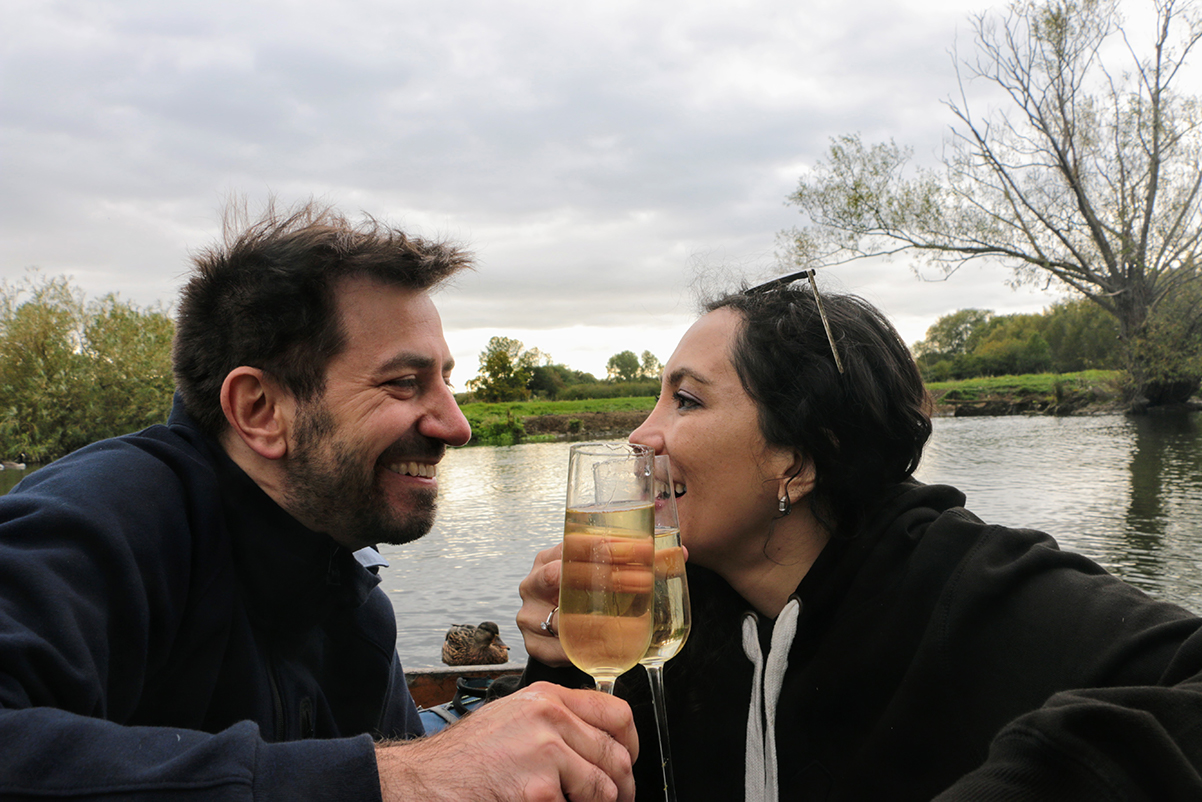
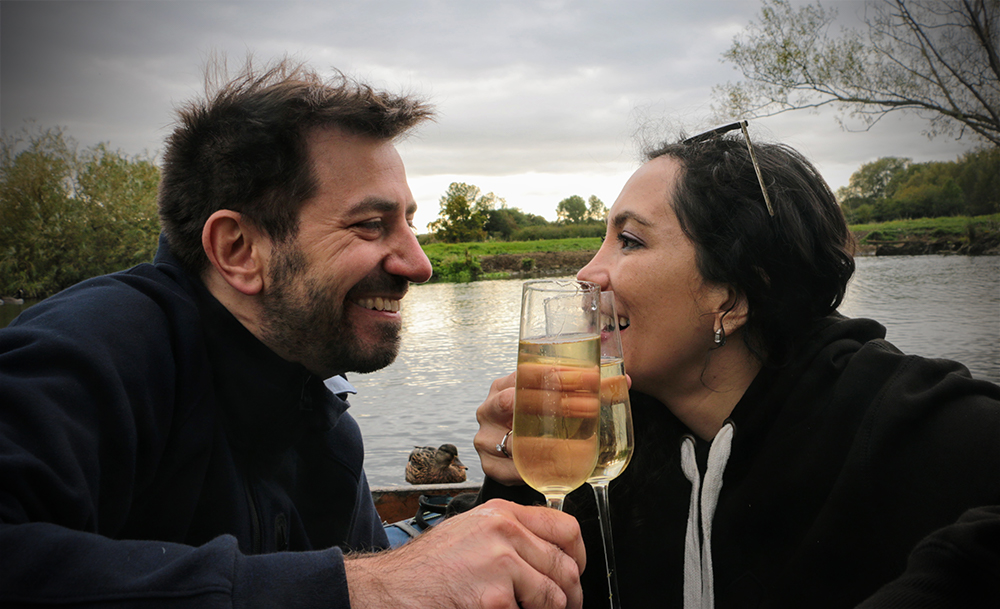
changed picture background, added vingete color, changes somes buttons

diff --git a/7f487033bf688bf9642d0a064ae7772d5ec1795a/css/styles.min.css b/7f487033bf688bf9642d0a064ae7772d5ec1795a/css/styles.min.css
@@ -1,1 +1,1 @@
-@import url(https://fonts.googleapis.com/css?family=Open+Sans:300italic,400italic,600italic,700italic,800italic,400,300,600,700,800);@import url(https://fonts.googleapis.com/css?family=Merriweather:400,300,400italic,300italic,700,700italic);@import url(https://fonts.googleapis.com/css?family=Nunito:400,300,700);p{font-size:15px;line-height:29px;color:rgba(28,54,83,0.6);padding-bottom:20px}h1{font-size:60px}h2{font-size:40px;font-weight:300;color:#3D4351}h3{color:#3D4351;font-size:18px;font-weight:700;text-transform:uppercase;letter-spacing:3px;line-height:29px}h4{font-size:18px}h5{font-size:15px;color:#3D4351;text-transform:uppercase;font-weight:500}.btn{font-size:13px;border:solid 2px;-moz-border-radius:40px;-webkit-border-radius:40px;border-radius:40px;display:inline-block;text-transform:uppercase}.btn:hover,.btn:focus{color:#fff;border-color:#e8ca6f;background-color:#e8ca6f}.btn-white{font-size:13px;border:solid 2px;-moz-border-radius:40px;-webkit-border-radius:40px;border-radius:40px;display:inline-block;border-color:#fff}.btn-white:hover,.btn-white:focus{color:#e8ca6f;border-color:#e8ca6f}.btn-fill{color:#fff;border:solid 2px #e8ca6f;-moz-border-radius:40px;-webkit-border-radius:40px;border-radius:40px;display:inline-block;text-transform:uppercase;background-color:#e8ca6f}.btn-fill:hover,.btn-fill:focus{color:#fff;background-color:#d3b56a;border-color:#d3b56a}.btn-small{padding:8px 30px}.btn-large{padding:15px 40px}.btn-margin-right{margin-right:20px}section.intro,section.features-extra,section.rsvp{background:#fff}section.features,section.events,section.blog{background:#f8f9fd}.group:after{content:"";display:table;clear:both}.no-padding{padding:0}.no-margin{margin:0}a{color:#e8ca6f;-webkit-transition-timing-function:ease;transition-timing-function:ease;-webkit-transition-duration:200ms;transition-duration:200ms;-webkit-transition-property:color, border-color, background-color;transition-property:color, border-color, background-color}a:hover,a:focus{color:#d3b56a;text-decoration:none}body{font-family:"Open Sans",sans-serif;font-weight:300;color:rgba(28,54,83,0.6);-webkit-text-size-adjust:100%}*:focus{outline:none !important}ul,ol{margin:0;padding:0}ul li{list-style:none}section .header{padding-bottom:30px}.section-padding{padding:40px 0}.section-border{border-bottom:1px solid #E6E9EA}.tooltip{position:absolute;z-index:1070;display:block;font-family:"Helvetica Neue", Helvetica, Arial, sans-serif;font-size:12px;font-weight:normal;line-height:1.4;visibility:visible;filter:alpha(opacity=0);opacity:0}.tooltip.in{filter:alpha(opacity=90);opacity:.9}.tooltip.top{padding:5px 0;margin-top:-3px}.tooltip.right{padding:0 5px;margin-left:3px}.tooltip.bottom{padding:5px 0;margin-top:3px}.tooltip.left{padding:0 5px;margin-left:-3px}.tooltip-inner{max-width:200px;padding:3px 8px;color:#fff;text-align:center;text-decoration:none;text-transform:capitalize;background-color:#000;border-radius:4px}.pulse2{animation-name:pulse2;animation-duration:1s;animation-iteration-count:infinite;animation-timing-function:linear}@keyframes pulse2{0%{transform:scale(1.1)}50%{transform:scale(0.8)}100%{transform:scale(1)}}.floating-arrow{animation-name:floating-arrow;animation-duration:2s;animation-iteration-count:infinite;animation-timing-function:ease-in-out}@keyframes floating-arrow{from{transform:translate(-50%, 0)}65%{transform:translate(-50%, 15px)}to{transform:translate(-50%, 0)}}.floating-logo{animation-name:floating-logo;animation-duration:2s;animation-iteration-count:infinite;animation-timing-function:ease-in-out}@keyframes floating-logo{from{transform:translate(-50%, 0)}50%{transform:translate(-50%, 10px)}to{transform:translate(-50%, 0)}}.wp1,.wp2,.wp3,.wp4,.wp5,.wp6,.wp7,.wp8,.wp9{visibility:hidden}.wp8,.wp9{-webkit-animation-delay:0.3s;animation-delay:0.3s}.bounceInLeft,.bounceInRight,.fadeInUp,.fadeInUpDelay,.fadeInDown,.fadeInUpD,.fadeInLeft,.fadeInRight,.bounceInDown{visibility:visible}.header-nav.open{visibility:visible;opacity:0.9;-webkit-transition:opacity 0.5s;transition:opacity 0.5s}.nav-toggle{position:absolute;top:0;right:15px;z-index:999999;padding:10px 35px 16px 0;cursor:pointer}.nav-toggle:focus{outline:none}.nav-toggle span,.nav-toggle span:before,.nav-toggle span:after{content:"";position:absolute;display:block;width:35px;height:3px;-moz-border-radius:1px;-webkit-border-radius:1px;border-radius:1px;background:#fff;cursor:pointer}.nav-toggle span:before{top:-10px}.nav-toggle span:after{bottom:-10px}.nav-toggle span,.nav-toggle span:before,.nav-toggle span:after{-moz-transition:all 300ms ease-in-out;-o-transition:all 300ms ease-in-out;-webkit-transition:all 300ms ease-in-out;transition:all 300ms ease-in-out}.nav-toggle.active span{background-color:transparent}.nav-toggle.active span:before,.nav-toggle.active span:after{top:0}.nav-toggle.active span:before{-moz-transform:rotate(45deg);-ms-transform:rotate(45deg);-o-transform:rotate(45deg);-webkit-transform:rotate(45deg);transform:rotate(45deg)}.nav-toggle.active span:after{top:10px;-moz-transform:translatey(-10px) rotate(-45deg);-ms-transform:translatey(-10px) rotate(-45deg);-o-transform:translatey(-10px) rotate(-45deg);-webkit-transform:translatey(-10px) rotate(-45deg);transform:translatey(-10px) rotate(-45deg)}.navicon{position:absolute;height:26px;right:10px;top:48px;visibility:hidden;transition:all 300ms ease-in-out}.hero{min-height:750px;background:url("../img/hero-min.jpg") center center;-webkit-background-size:cover;-moz-background-size:cover;-o-background-size:cover;background-size:cover;position:relative}.hero .down-arrow a{color:#fff}.hero h1{color:#fff;margin-bottom:40px}.hero p.intro{color:#fff;font-size:20px;font-weight:300;margin-bottom:80px}.hero .hero-content{padding-top:40%}.hero .hero-content img{width:55%;margin-bottom:12%}.navigation{transition:all 300ms ease-in-out;position:fixed;width:100%;z-index:999}.fixed{position:fixed;background-color:rgba(55,36,40,0.88);z-index:999;width:100%}header{padding:50px 0;border-bottom:solid 1px rgba(255,255,255,0.2);position:relative;width:1170px;margin:0 auto;transition:padding 300ms ease-in-out}header a{color:#fff;text-transform:uppercase;font-size:13px}header a.login{margin-right:20px}header .logo{display:inline-block}header .logo img{height:19px}header ul.primary-nav{margin:0 0 0 75px;padding:0}header ul.primary-nav li{display:inline}header ul.primary-nav li a{color:#fff;padding-right:25px}header ul.primary-nav li a:hover{color:#e8ca6f}header ul.primary-nav li:last-child a{padding-right:0px}header ul.member-actions li{display:inline}header ul.member-actions li a{color:#fff}header ul.member-actions li a:hover{color:#e8ca6f}header .header-nav{display:inline-block}header .member-actions{position:absolute;right:0;top:41px;transition:all 300ms ease-in-out}.down-arrow{color:#fff;font-size:30px;position:absolute;bottom:30px;left:50%;transform:translateX(-50%)}.share-bar{margin-top:20px}.intro span.icon{font-size:40px;color:#e8ca6f;font-weight:bold}.intro-icon{display:inline-block;vertical-align:top;padding:6px 0 0 0;margin-right:20px;width:40px}.intro-content{display:inline-block;width:80%}#intro{padding-top:40px}#intro img{width:100%;height:auto}#intro p{text-align:center}.features{position:relative}.features p{margin-bottom:0;padding-bottom:0}.features h3{margin:0 0 20px 0}.features span.icon{font-size:35px;color:#e8ca6f;font-weight:bold}.features .feature-icon{display:inline-block;vertical-align:top;padding:6px 0 0 0;margin-right:20px;width:35px}.features .feature-content{display:inline-block;width:75%}.features .intro-icon{display:inline-block;vertical-align:top;padding:6px 0 0 0;margin-right:20px}.features .intro-content{display:inline-block;width:80%}.features ul.features-stack{margin-top:50px}.features ul.features-stack li{margin-top:20px;padding-bottom:20px;border-bottom:solid 1px #E6E9EA}.features ul.features-stack li:last-child{padding-bottom:0px;border-bottom:none}.features .ipad-wrap{width:706px;height:1002px;background:url("../img/ipad-device.png") no-repeat center center;z-index:1}.features .iphone-wrap{width:304px;height:620px;background:url("../img/iphone6.png") no-repeat center center;position:absolute;left:530px;bottom:129px;z-index:2}.features .device-showcase{position:absolute;bottom:-365px;right:61%}.features .responsive-feature-img,.features-extra .responsive-feature-img{display:none}.devices{position:relative}.features-extra{position:relative;z-index:3}.features-extra .btn{margin-top:20px}.features-extra .macbook-wrap{position:absolute;width:916px;height:540px;background:url("../img/macbook-pro.png") no-repeat center center;top:114px;z-index:4;left:50%}.hero-strip{margin-top:120px;background:#333844 url("../img/polygonal-bg.jpg") no-repeat center center;padding-bottom:190px;position:relative}.hero-strip i{font-family:"Nunito",sans-serif;font-weight:300;font-size:25px;color:#F69D52;vertical-align:top;margin-left:-8px;font-style:normal}.hero-strip h2{color:#fff;margin:0 0 20px 0}.hero-strip p{color:#ACB1B4}.hero-strip .btn{margin-top:10px}.hero-strip .logo-placeholder{width:230px;height:230px;position:absolute;bottom:-285px;left:50%;transform:translateX(-50%)}.events .leftcol{padding-right:100px;border-right:solid 1px #E6E9EA}.events .rightcol{padding-left:100px}.events .time{font-size:13px;font-style:italic;text-transform:lowercase;color:rgba(28,54,83,0.6)}.blog{padding-bottom:120px}.blog img{width:100%;height:auto;-moz-transition:all 300ms ease-in-out;-o-transition:all 300ms ease-in-out;-webkit-transition:all 300ms ease-in-out;transition:all 300ms ease-in-out}.blog h2{font-size:11px;color:#ACB1B4;font-weight:500;text-transform:uppercase;margin-top:35px}.blog .btn{margin-top:20px}.blog .blog-img-wrap{position:relative;overflow:hidden}.blog .blog-img-wrap .overlay{position:absolute;width:100%;height:100%;background-color:rgba(255,255,255,0.5);-moz-transition:all 300ms ease-in-out;-o-transition:all 300ms ease-in-out;-webkit-transition:all 300ms ease-in-out;transition:all 300ms ease-in-out;-ms-filter:"progid:DXImageTransform.Microsoft.Alpha(Opacity=0)";filter:alpha(opacity=0);opacity:0}.blog .blog-img-wrap i{color:#fff;font-size:20px;position:absolute;width:20px;height:20px;top:25px;right:35px}.blog .blog-img-wrap:hover img,.blog .blog-img-wrap:focus img{-moz-transform:scale(1.1);-ms-transform:scale(1.1);-o-transform:scale(1.1);-webkit-transform:scale(1.1);transform:scale(1.1)}.blog .blog-img-wrap:hover .overlay,.blog .blog-img-wrap:focus .overlay{-ms-filter:"progid:DXImageTransform.Microsoft.Alpha(Opacity=1)";filter:alpha(opacity=1);opacity:1;z-index:9}.blog figcaption i{margin-left:5px;font-size:15px}.blog figcaption a.blog-post-title{color:rgba(28,54,83,0.6)}.blog figcaption a.blog-post-title:hover,.blog figcaption a.blog-post-title:focus{color:#3D4351}#instagram img{width:100%}#eng-pics img{width:100%;height:auto;-moz-transition:all 300ms ease-in-out;-o-transition:all 300ms ease-in-out;-webkit-transition:all 300ms ease-in-out;transition:all 300ms ease-in-out}#eng-pics .img-wrap{position:relative;overflow:hidden;border-radius:4px}#eng-pics .img-wrap .overlay{position:absolute;width:100%;height:100%;background-color:rgba(255,255,255,0.5);-moz-transition:all 300ms ease-in-out;-o-transition:all 300ms ease-in-out;-webkit-transition:all 300ms ease-in-out;transition:all 300ms ease-in-out;-ms-filter:"progid:DXImageTransform.Microsoft.Alpha(Opacity=0)";filter:alpha(opacity=0);opacity:0}#eng-pics .img-wrap i{color:#fff;font-size:15px;position:absolute;width:15px;height:15px;top:6px;right:6px}#eng-pics .img-wrap:hover img,#eng-pics .img-wrap:focus img{-moz-transform:scale(1.1);-ms-transform:scale(1.1);-o-transform:scale(1.1);-webkit-transform:scale(1.1);transform:scale(1.1)}#eng-pics .img-wrap:hover .overlay,#eng-pics .img-wrap:focus .overlay{-ms-filter:"progid:DXImageTransform.Microsoft.Alpha(Opacity=1)";filter:alpha(opacity=1);opacity:1;z-index:9}#eng-pics .diamond{width:230px;height:230px;position:absolute;bottom:-145px;left:50%;transform:translateX(-50%);z-index:500}#eng-pics .ring{width:75px;height:75px;border-radius:75px;border:10px solid #d0d3d4;position:absolute;left:34%;top:75%;z-index:-1}#video-bg{height:300px}#video-content{width:100%;height:100%;padding-top:100px;position:relative;background:rgba(17,17,17,0.5);text-align:center}#video-content h5{color:#ffffff;font-size:30px;font-weight:300;letter-spacing:10px}#video-content p{color:#ffffff}#map-canvas{height:500px;width:100%}#map-content-wrapper{position:relative;margin-top:-502px;margin-bottom:150px}#map-content{margin-top:40px;padding:50px 60px;background:#fff;-webkit-transition:opacity 0.5s, visibility 0.6s, margin-top 0.5s;transition:opacity 0.5s, visibility 0.6s, margin-top 0.5s}#btn-show-content{padding:20px;background:#fff;cursor:pointer;display:inline-block;-webkit-transition:opacity 0.5s, visibility 0.6s, margin-top 0.5s;transition:opacity 0.5s, visibility 0.6s, margin-top 0.5s}.toggle-map-content{opacity:0;visibility:hidden}.pointer-events-none{pointer-events:none}.pointer-events-auto{pointer-events:auto}.rsvp{padding-bottom:140px}.rsvp .rsvp-form .rsvp-btn{padding:15px 0;border-radius:3px;width:100%;font-size:13px}.rsvp .rsvp-form .form-input-group{width:100%;height:55px;margin:0 auto 10px;-moz-border-radius:5px;-webkit-border-radius:5px;border-radius:5px;border:solid 1px #E6E9EA;text-align:left;position:relative}.rsvp .rsvp-form .form-input-group i{color:#e8ca6f;font-size:14px}.rsvp .rsvp-form .form-input-group i:after{content:"";height:30px;width:1px;border-right:solid 1px #E6E9EA;position:absolute;top:50%;left:30px;transform:translateY(-50%)}.rsvp .rsvp-form .form-input-group i.fa-user,.rsvp .rsvp-form .form-input-group i.fa-users,.rsvp .rsvp-form .form-input-group i.fa-envelope,.rsvp .rsvp-form .form-input-group .fa-key{font-size:14px;position:absolute;top:50%;transform:translateY(-50%);margin-left:20px}.rsvp .rsvp-form .form-input-group input{padding-left:68px;width:100%;height:100%;-moz-border-radius:6px;-webkit-border-radius:6px;border-radius:6px;border:none}.rsvp .rsvp-form .form-input-group input::-webkit-input-placeholder{color:#BCC1C3}.rsvp .rsvp-form .form-input-group input:-moz-placeholder{color:#BCC1C3}.rsvp .rsvp-form .form-input-group input::-moz-placeholder{color:#BCC1C3}.rsvp .rsvp-form .form-input-group input:-ms-input-placeholder{color:#BCC1C3}footer .content{border-top:1px solid #E6E9EA;padding-bottom:20px}footer .to-top-wrapper{font-size:30px;display:block;cursor:pointer;margin:-25px auto 50px;border-radius:50%;width:50px;height:50px;border:1px solid #E6E9EA;background:#fff}footer .to-top-wrapper .to-top{display:block;-webkit-transition:all .3s ease-in-out;-moz-transition:all .3s ease-in-out;-ms-transition:all .3s ease-in-out;-o-transition:all .3s ease-in-out;transition:all .3s ease-in-out}footer .to-top-wrapper .to-top:hover{margin-top:-5px}footer span.fa-heart{color:#ff415c;font-size:18px;margin:0 2px}body.modal-open{padding-right:0 !important}.modal-body{padding:25px}
+@import url(https://fonts.googleapis.com/css?family=Open+Sans:300italic,400italic,600italic,700italic,800italic,400,300,600,700,800);@import url(https://fonts.googleapis.com/css?family=Merriweather:400,300,400italic,300italic,700,700italic);@import url(https://fonts.googleapis.com/css?family=Nunito:400,300,700);p{font-size:15px;line-height:29px;color:rgba(28,54,83,0.6);padding-bottom:20px}h1{font-size:60px}h2{font-size:40px;font-weight:300;color:#3D4351}h3{color:#3D4351;font-size:18px;font-weight:700;text-transform:uppercase;letter-spacing:3px;line-height:29px}h4{font-size:18px}h5{font-size:15px;color:#3D4351;text-transform:uppercase;font-weight:500}.btn{font-size:13px;border:solid 2px;-moz-border-radius:40px;-webkit-border-radius:40px;border-radius:40px;display:inline-block;text-transform:uppercase}.btn:hover,.btn:focus{color:#fff;border-color:#e8ca6f;background-color:#e8ca6f}.btn-white{font-size:13px;font-weight:bold;border:solid 3px;-moz-border-radius:40px;-webkit-border-radius:40px;border-radius:40px;display:inline-block;border-color:#fff}.btn-white:hover,.btn-white:focus{color:#e8ca6f;border-color:#e8ca6f}.btn-fill{color:#fff;border:solid 2px #e8ca6f;-moz-border-radius:40px;-webkit-border-radius:40px;border-radius:40px;display:inline-block;text-transform:uppercase;background-color:#e8ca6f}.btn-fill:hover,.btn-fill:focus{color:#fff;background-color:#d3b56a;border-color:#d3b56a}.btn-small{padding:8px 30px}.btn-large{padding:15px 40px}.btn-margin-right{margin-right:20px}section.intro,section.features-extra,section.rsvp{background:#fff}section.features,section.events,section.blog{background:#f8f9fd}.group:after{content:"";display:table;clear:both}.no-padding{padding:0}.no-margin{margin:0}a{color:#e8ca6f;-webkit-transition-timing-function:ease;transition-timing-function:ease;-webkit-transition-duration:200ms;transition-duration:200ms;-webkit-transition-property:color, border-color, background-color;transition-property:color, border-color, background-color}a:hover,a:focus{color:#d3b56a;text-decoration:none}body{font-family:"Open Sans",sans-serif;font-weight:300;color:rgba(28,54,83,0.6);-webkit-text-size-adjust:100%}*:focus{outline:none !important}ul,ol{margin:0;padding:0}ul li{list-style:none}section .header{padding-bottom:30px}.section-padding{padding:40px 0}.section-border{border-bottom:1px solid #E6E9EA}.tooltip{position:absolute;z-index:1070;display:block;font-family:"Helvetica Neue", Helvetica, Arial, sans-serif;font-size:12px;font-weight:normal;line-height:1.4;visibility:visible;filter:alpha(opacity=0);opacity:0}.tooltip.in{filter:alpha(opacity=90);opacity:.9}.tooltip.top{padding:5px 0;margin-top:-3px}.tooltip.right{padding:0 5px;margin-left:3px}.tooltip.bottom{padding:5px 0;margin-top:3px}.tooltip.left{padding:0 5px;margin-left:-3px}.tooltip-inner{max-width:200px;padding:3px 8px;color:#fff;text-align:center;text-decoration:none;text-transform:capitalize;background-color:#000;border-radius:4px}.pulse2{animation-name:pulse2;animation-duration:1s;animation-iteration-count:infinite;animation-timing-function:linear}@keyframes pulse2{0%{transform:scale(1.1)}50%{transform:scale(0.8)}100%{transform:scale(1)}}.floating-arrow{animation-name:floating-arrow;animation-duration:2s;animation-iteration-count:infinite;animation-timing-function:ease-in-out}@keyframes floating-arrow{from{transform:translate(-50%, 0)}65%{transform:translate(-50%, 15px)}to{transform:translate(-50%, 0)}}.floating-logo{animation-name:floating-logo;animation-duration:2s;animation-iteration-count:infinite;animation-timing-function:ease-in-out}@keyframes floating-logo{from{transform:translate(-50%, 0)}50%{transform:translate(-50%, 10px)}to{transform:translate(-50%, 0)}}.wp1,.wp2,.wp3,.wp4,.wp5,.wp6,.wp7,.wp8,.wp9{visibility:hidden}.wp8,.wp9{-webkit-animation-delay:0.3s;animation-delay:0.3s}.bounceInLeft,.bounceInRight,.fadeInUp,.fadeInUpDelay,.fadeInDown,.fadeInUpD,.fadeInLeft,.fadeInRight,.bounceInDown{visibility:visible}.header-nav.open{visibility:visible;opacity:0.9;-webkit-transition:opacity 0.5s;transition:opacity 0.5s}.nav-toggle{position:absolute;top:0;right:15px;z-index:999999;padding:10px 35px 16px 0;cursor:pointer}.nav-toggle:focus{outline:none}.nav-toggle span,.nav-toggle span:before,.nav-toggle span:after{content:"";position:absolute;display:block;width:35px;height:3px;-moz-border-radius:1px;-webkit-border-radius:1px;border-radius:1px;background:#fff;cursor:pointer}.nav-toggle span:before{top:-10px}.nav-toggle span:after{bottom:-10px}.nav-toggle span,.nav-toggle span:before,.nav-toggle span:after{-moz-transition:all 300ms ease-in-out;-o-transition:all 300ms ease-in-out;-webkit-transition:all 300ms ease-in-out;transition:all 300ms ease-in-out}.nav-toggle.active span{background-color:transparent}.nav-toggle.active span:before,.nav-toggle.active span:after{top:0}.nav-toggle.active span:before{-moz-transform:rotate(45deg);-ms-transform:rotate(45deg);-o-transform:rotate(45deg);-webkit-transform:rotate(45deg);transform:rotate(45deg)}.nav-toggle.active span:after{top:10px;-moz-transform:translatey(-10px) rotate(-45deg);-ms-transform:translatey(-10px) rotate(-45deg);-o-transform:translatey(-10px) rotate(-45deg);-webkit-transform:translatey(-10px) rotate(-45deg);transform:translatey(-10px) rotate(-45deg)}.navicon{position:absolute;height:26px;right:10px;top:48px;visibility:hidden;transition:all 300ms ease-in-out}.hero{min-height:750px;background:url("../img/hero-min.jpg") center center;-webkit-background-size:cover;-moz-background-size:cover;-o-background-size:cover;background-size:cover;position:relative}.hero .down-arrow a{color:#fff}.hero h1{color:#fff;margin-bottom:40px}.hero p.intro{color:#fff;font-size:20px;font-weight:300;margin-bottom:80px}.hero .hero-content{padding-top:40%}.hero .hero-content img{width:55%;margin-bottom:12%}.navigation{transition:all 300ms ease-in-out;position:fixed;width:100%;z-index:999}.fixed{position:fixed;background-color:rgba(55,36,40,0.88);z-index:999;width:100%}header{padding:50px 0;border-bottom:solid 0px rgba(255,255,255,0.2);position:relative;width:1170px;margin:0 auto;transition:padding 300ms ease-in-out}header a{color:#fff;text-transform:uppercase;font-size:13px}header a.login{margin-right:20px;font-weight:bold}header .logo{display:inline-block}header .logo img{height:19px}header ul.primary-nav{margin:0 0 0 75px;padding:0}header ul.primary-nav li{display:inline}header ul.primary-nav li a{color:#fff;padding-right:25px}header ul.primary-nav li a:hover{color:#e8ca6f}header ul.primary-nav li:last-child a{padding-right:0px}header ul.member-actions li{display:inline}header ul.member-actions li a{color:#fff}header ul.member-actions li a:hover{color:#e8ca6f}header .header-nav{display:inline-block}header .member-actions{position:absolute;right:0;top:41px;transition:all 300ms ease-in-out}.down-arrow{color:#fff;font-size:30px;position:absolute;bottom:30px;left:50%;transform:translateX(-50%)}.share-bar{margin-top:20px}.intro span.icon{font-size:40px;color:#e8ca6f;font-weight:bold}.intro-icon{display:inline-block;vertical-align:top;padding:6px 0 0 0;margin-right:20px;width:40px}.intro-content{display:inline-block;width:80%}#intro{padding-top:40px}#intro img{width:100%;height:auto}#intro p{text-align:center}.features{position:relative}.features p{margin-bottom:0;padding-bottom:0}.features h3{margin:0 0 20px 0}.features span.icon{font-size:35px;color:#e8ca6f;font-weight:bold}.features .feature-icon{display:inline-block;vertical-align:top;padding:6px 0 0 0;margin-right:20px;width:35px}.features .feature-content{display:inline-block;width:75%}.features .intro-icon{display:inline-block;vertical-align:top;padding:6px 0 0 0;margin-right:20px}.features .intro-content{display:inline-block;width:80%}.features ul.features-stack{margin-top:50px}.features ul.features-stack li{margin-top:20px;padding-bottom:20px;border-bottom:solid 1px #E6E9EA}.features ul.features-stack li:last-child{padding-bottom:0px;border-bottom:none}.features .ipad-wrap{width:706px;height:1002px;background:url("../img/ipad-device.png") no-repeat center center;z-index:1}.features .iphone-wrap{width:304px;height:620px;background:url("../img/iphone6.png") no-repeat center center;position:absolute;left:530px;bottom:129px;z-index:2}.features .device-showcase{position:absolute;bottom:-365px;right:61%}.features .responsive-feature-img,.features-extra .responsive-feature-img{display:none}.devices{position:relative}.features-extra{position:relative;z-index:3}.features-extra .btn{margin-top:20px}.features-extra .macbook-wrap{position:absolute;width:916px;height:540px;background:url("../img/macbook-pro.png") no-repeat center center;top:114px;z-index:4;left:50%}.hero-strip{margin-top:120px;background:#333844 url("../img/polygonal-bg.jpg") no-repeat center center;padding-bottom:190px;position:relative}.hero-strip i{font-family:"Nunito",sans-serif;font-weight:300;font-size:25px;color:#F69D52;vertical-align:top;margin-left:-8px;font-style:normal}.hero-strip h2{color:#fff;margin:0 0 20px 0}.hero-strip p{color:#ACB1B4}.hero-strip .btn{margin-top:10px}.hero-strip .logo-placeholder{width:230px;height:230px;position:absolute;bottom:-285px;left:50%;transform:translateX(-50%)}.events .leftcol{padding-right:100px;border-right:solid 1px #E6E9EA}.events .rightcol{padding-left:100px}.events .time{font-size:13px;font-style:italic;text-transform:lowercase;color:rgba(28,54,83,0.6)}.blog{padding-bottom:120px}.blog img{width:100%;height:auto;-moz-transition:all 300ms ease-in-out;-o-transition:all 300ms ease-in-out;-webkit-transition:all 300ms ease-in-out;transition:all 300ms ease-in-out}.blog h2{font-size:11px;color:#ACB1B4;font-weight:500;text-transform:uppercase;margin-top:35px}.blog .btn{margin-top:20px}.blog .blog-img-wrap{position:relative;overflow:hidden}.blog .blog-img-wrap .overlay{position:absolute;width:100%;height:100%;background-color:rgba(255,255,255,0.5);-moz-transition:all 300ms ease-in-out;-o-transition:all 300ms ease-in-out;-webkit-transition:all 300ms ease-in-out;transition:all 300ms ease-in-out;-ms-filter:"progid:DXImageTransform.Microsoft.Alpha(Opacity=0)";filter:alpha(opacity=0);opacity:0}.blog .blog-img-wrap i{color:#fff;font-size:20px;position:absolute;width:20px;height:20px;top:25px;right:35px}.blog .blog-img-wrap:hover img,.blog .blog-img-wrap:focus img{-moz-transform:scale(1.1);-ms-transform:scale(1.1);-o-transform:scale(1.1);-webkit-transform:scale(1.1);transform:scale(1.1)}.blog .blog-img-wrap:hover .overlay,.blog .blog-img-wrap:focus .overlay{-ms-filter:"progid:DXImageTransform.Microsoft.Alpha(Opacity=1)";filter:alpha(opacity=1);opacity:1;z-index:9}.blog figcaption i{margin-left:5px;font-size:15px}.blog figcaption a.blog-post-title{color:rgba(28,54,83,0.6)}.blog figcaption a.blog-post-title:hover,.blog figcaption a.blog-post-title:focus{color:#3D4351}#instagram img{width:100%}#eng-pics img{width:100%;height:auto;-moz-transition:all 300ms ease-in-out;-o-transition:all 300ms ease-in-out;-webkit-transition:all 300ms ease-in-out;transition:all 300ms ease-in-out}#eng-pics .img-wrap{position:relative;overflow:hidden;border-radius:4px}#eng-pics .img-wrap .overlay{position:absolute;width:100%;height:100%;background-color:rgba(255,255,255,0.5);-moz-transition:all 300ms ease-in-out;-o-transition:all 300ms ease-in-out;-webkit-transition:all 300ms ease-in-out;transition:all 300ms ease-in-out;-ms-filter:"progid:DXImageTransform.Microsoft.Alpha(Opacity=0)";filter:alpha(opacity=0);opacity:0}#eng-pics .img-wrap i{color:#fff;font-size:15px;position:absolute;width:15px;height:15px;top:6px;right:6px}#eng-pics .img-wrap:hover img,#eng-pics .img-wrap:focus img{-moz-transform:scale(1.1);-ms-transform:scale(1.1);-o-transform:scale(1.1);-webkit-transform:scale(1.1);transform:scale(1.1)}#eng-pics .img-wrap:hover .overlay,#eng-pics .img-wrap:focus .overlay{-ms-filter:"progid:DXImageTransform.Microsoft.Alpha(Opacity=1)";filter:alpha(opacity=1);opacity:1;z-index:9}#eng-pics .diamond{width:230px;height:230px;position:absolute;bottom:-145px;left:50%;transform:translateX(-50%);z-index:500}#eng-pics .ring{width:75px;height:75px;border-radius:75px;border:10px solid #d0d3d4;position:absolute;left:34%;top:75%;z-index:-1}#video-bg{height:300px}#video-content{width:100%;height:100%;padding-top:100px;position:relative;background:rgba(17,17,17,0.5);text-align:center}#video-content h5{color:#ffffff;font-size:30px;font-weight:300;letter-spacing:10px}#video-content p{color:#ffffff}#map-canvas{height:500px;width:100%}#map-content-wrapper{position:relative;margin-top:-502px;margin-bottom:150px}#map-content{margin-top:40px;padding:50px 60px;background:#fff;-webkit-transition:opacity 0.5s, visibility 0.6s, margin-top 0.5s;transition:opacity 0.5s, visibility 0.6s, margin-top 0.5s}#btn-show-content{padding:20px;background:#fff;cursor:pointer;display:inline-block;-webkit-transition:opacity 0.5s, visibility 0.6s, margin-top 0.5s;transition:opacity 0.5s, visibility 0.6s, margin-top 0.5s}.toggle-map-content{opacity:0;visibility:hidden}.pointer-events-none{pointer-events:none}.pointer-events-auto{pointer-events:auto}.rsvp{padding-bottom:140px}.rsvp .rsvp-form .rsvp-btn{padding:15px 0;border-radius:3px;width:100%;font-size:13px}.rsvp .rsvp-form .form-input-group{width:100%;height:55px;margin:0 auto 10px;-moz-border-radius:5px;-webkit-border-radius:5px;border-radius:5px;border:solid 1px #E6E9EA;text-align:left;position:relative}.rsvp .rsvp-form .form-input-group i{color:#e8ca6f;font-size:14px}.rsvp .rsvp-form .form-input-group i:after{content:"";height:30px;width:1px;border-right:solid 1px #E6E9EA;position:absolute;top:50%;left:30px;transform:translateY(-50%)}.rsvp .rsvp-form .form-input-group i.fa-user,.rsvp .rsvp-form .form-input-group i.fa-users,.rsvp .rsvp-form .form-input-group i.fa-envelope,.rsvp .rsvp-form .form-input-group .fa-key{font-size:14px;position:absolute;top:50%;transform:translateY(-50%);margin-left:20px}.rsvp .rsvp-form .form-input-group input{padding-left:68px;width:100%;height:100%;-moz-border-radius:6px;-webkit-border-radius:6px;border-radius:6px;border:none}.rsvp .rsvp-form .form-input-group input::-webkit-input-placeholder{color:#BCC1C3}.rsvp .rsvp-form .form-input-group input:-moz-placeholder{color:#BCC1C3}.rsvp .rsvp-form .form-input-group input::-moz-placeholder{color:#BCC1C3}.rsvp .rsvp-form .form-input-group input:-ms-input-placeholder{color:#BCC1C3}footer .content{border-top:1px solid #E6E9EA;padding-bottom:20px}footer .to-top-wrapper{font-size:30px;display:block;cursor:pointer;margin:-25px auto 50px;border-radius:50%;width:50px;height:50px;border:1px solid #E6E9EA;background:#fff}footer .to-top-wrapper .to-top{display:block;-webkit-transition:all .3s ease-in-out;-moz-transition:all .3s ease-in-out;-ms-transition:all .3s ease-in-out;-o-transition:all .3s ease-in-out;transition:all .3s ease-in-out}footer .to-top-wrapper .to-top:hover{margin-top:-5px}footer span.fa-heart{color:#ff415c;font-size:18px;margin:0 2px}body.modal-open{padding-right:0 !important}.modal-body{padding:25px}

diff --git a/7f487033bf688bf9642d0a064ae7772d5ec1795a/index.html b/7f487033bf688bf9642d0a064ae7772d5ec1795a/index.html
@@ -10,7 +10,7 @@
 <head>
     <meta charset="utf-8">
     <meta http-equiv="X-UA-Compatible" content="IE=edge"/>
-    <title>Ram & Antara getting hitched!</title>
+    <title>Ruth & Chris getting hitched!</title>
     <meta name="description" content="We would like to invite you to our big day.">
     <meta name="viewport" content="width=device-width, initial-scale=1">
     <meta name="theme-color" content="#ffffff">
@@ -44,10 +44,9 @@
             <div class="header-content">
                 <div class="header-nav">
                     <nav>
-                        <ul class="primary-nav">
-                            <li class="hidden-sm hidden-xs"><a href="#video-bg">Glimpse of the city</a></li>
-                        </ul>
-                        <ul class="member-actions">
+
+                        <ul class ="member-actions">
+                            <li><a href="#map" class="login">Updates</a></li>
                             <li><a href="#map" class="login">Venue</a></li>
                             <li><a href="#rsvp" class="btn-white btn-small">RSVP</a></li>
                         </ul>
@@ -63,9 +62,8 @@
         <div class="row">
             <div class="col-md-10 col-md-offset-1">
                 <div class="hero-content text-center">
-                    <!--<h1>Ram and Antara</h1>-->
-                    <img src="img/logo-lg.png">
-                    <!--<p class="intro">Ram & Antara are getting hitched!</p>-->
+                    <!--<h1>Ruth and Chris</h1>-->
+                    <!--<p class="intro">Ruth & Chris are getting hitched!</p>-->
                     <!--<a href="#" class="btn btn-fill btn-large btn-margin-right">Scroll Down</a> -->
                 </div>
             </div>
@@ -85,15 +83,15 @@
         <div class="row">
             <div class="col-md-12 text-center">
                 <h3>We are getting hitched</h3>
-                <p>The dates are 27<sup>th</sup> & 28<sup>th</sup> of November '17 and we would like you to be a part of
+                <p>The dates are 20<sup>th</sup> and 21<sup>st</sup> of August 2021 and we would
+                    like you to be a part of
                     it.</p>
-                <div class="share-bar"></div>
             </div>
         </div>
     </div>
-</section>
 
-<section id="intro">
+
+
     <div class="container">
         <div class="row">
             <div class="col-md-12 text-center">
@@ -101,22 +99,13 @@
             </div>
         </div>
         <div class="row">
-            <div class="col-md-3 hidden-sm hidden-xs"><img src="img/IMG_2317.jpg" class="wp1"></div>
-            <div class="col-md-6">
+            <div class="col-md-12 text-center">
                 <p>
-                    I first saw Antara in the Fall of 2008 when we started our undergrad. I was instantly attracted to
-                    her but was far too nervous to speak to her. I had told my friend I liked her and news had traveled
-                    fast and she soon found out. Her first reaction was "Who is Ram?" and she began searching for me in
-                    the class. She started to take notice of me and no matter how boring the lecture was, we never
-                    missed a class after that. After a good few months I finally plucked up the courage to ask her out
-                    and the rest is history :)
+                    We met on July 2015 at the Head of the River, close to the Thames in Oxford.
+                    We have been together ever since.
+                    The end.
                 </p>
             </div>
-            <div class="col-md-3 hidden-sm hidden-xs"><img src="img/DSD_0214.jpg" class="wp2"></div>
-        </div>
-        <div class="row">
-            <div class="col-sm-4 col-sm-push-2 col-xs-6 hidden-md hidden-lg"><img src="img/IMG_2317.jpg" class="wp8"></div>
-            <div class="col-sm-4 col-sm-push-2 col-xs-6 hidden-md hidden-lg"><img src="img/DSD_0214.jpg" class="wp9"></div>
         </div>
     </div>
 </section>
@@ -131,39 +120,33 @@
         <div class="row">
             <div class="col-md-6 col-sm-12 col-xs-12 leftcol">
                 <div class="wp3">
-                    <p><strong>27th November</strong></p>
+                    <p><strong>20th August</strong></p>
 
-                    <h5>Mehndi <span class="time">1PM - 5PM</span></h5>
-                    <p>It's one of the oldest traditional Indian pre wedding ceremony where the bride and groom
-                        attend the event together and a professional mehndi artist applies
-                        mehndi to the bride's hands and feet. This will be having a celebratory
-                        festival feel to it with people wearing vibrant clothes and dancing, singing, playing
-                        games and a lot more.</p>
+                    <h5>OXFORD <span class="time">5PM - 00h30AM</span></h5>
+                    <p>City where Ruth & Chris met close to the Thames. It revolves around its
+                        prestigious university, established in the 12th century. The architecture of its 38 colleges
+                        in the city’s medieval center led poet Matthew Arnold to nickname it the 'City of Dreaming Spires'.</p>
                 </div>
                 <div class="wp5">
                     <h5>Cocktail Night <span class="time">7PM - 12AM</span></h5>
-                    <p>This event is no way close to ethnic. The bride & groom would like to have some "shots before the
+                    <p>The bride & groom would like to have some "shots before the
                         knot". With booze flowing down the floor and the western attire on, everyone would be busy
-                        showing off their new moves on the stage which they have finely honed. Lastly, expect some beer
-                        pong matches & karaoke for sure.</p>
+                        showing off their new moves on the stage which they have finely honed.
+                        Lastly, expect some German beers.</p>
                 </div>
             </div>
             <div class="col-md-6 col-sm-12 col-xs-12 rightcol">
                 <div class="wp4">
-                    <p><strong>28th November</strong></p>
+                    <p><strong>21st August</strong></p>
 
-                    <h5>Haldi <span class="time">10AM-11AM</span></h5>
-                    <p>The haldi ceremony is usually held separately for the bride and the groom. This one is for the
-                        bride. It is a low-key event that involves the application of turmeric paste on the hands, legs
-                        and face of the bride. The groom is not allowed to see the bride after this ritual until the
-                        final wedding ceremony starts.</p>
+                    <h5>WARWICK Castle <span class="time">16H30PM-00H30AM</span></h5>
+                    <p> Warwick is the county town of Warwickshire, England, situated on a meander of the River Avon.
+                        The original wooden motte-and-bailey castle was rebuilt in stone during the 12th century.</p>
                 </div>
                 <div class="wp6">
                     <h5>Wedding <span class="time">6PM-12AM</span></h5>
-                    <p>This is the main event in the entire wedding when the bride and the groom tie the
-                        knot. The groom comes with the barat and is greeted by the bride side with some dhol of course
-                        as maximum number of guests would be attending this event. This is when the couple circle the
-                        sacred fire and are finally declared husband and wife.</p>
+                    <p>The wedding will start with a reception in the Central Courtyard, then the
+                        ceremony and a dinner in the Great Hall.</p>
                 </div>
             </div>
         </div>
@@ -187,16 +170,7 @@
                     <button type="button" class="close" data-dismiss="modal" aria-label="Close"><span>&times;</span>
                     </button>
                     <h3 class="text-center section-padding">Ugh... dress codes?</h3>
-                    <h5>Mehndi <span class="time">1PM - 5PM</span></h5>
-                    <p>
-                        <strong>Ethnic indian wear</strong>
-                        <br>
-                        Ladies can wear something
-                        <a href="https://www.pinterest.com/ramswarooppatra/mehndi-dress-for-women/">bright & vivid</a>
-                        and gentlemen can be on
-                        their <a href="https://www.pinterest.com/ramswarooppatra/mehndi-dress-for-men/">vibrant
-                        kurtas</a> with pants or pyjamas along with an optional shawl.
-                    </p>
+
                     <h5>Cocktail Night <span class="time">7PM - 12AM</span></h5>
                     <p>
                         <strong>Western attire</strong>
@@ -333,10 +307,7 @@
     <div id="bgndVideo" class="player"
          data-property="{videoURL:'https://youtu.be/9giqL1H6yRs',containment:'#video-bg',autoPlay:true, mute:true, showControls:false, startAt:80, stopAt:259, opacity:1}">
     </div>
-    <div id="video-content">
-        <h5>Kolkata</h5>
-        <p>City of joy</p>
-    </div>
+
 </section>
 
 <section id="map" class="section-padding">
@@ -404,7 +375,7 @@
         <div class="row">
             <div class="col-md-6 col-md-offset-3">
                 <h3>What are you waiting for?</h3>
-                <p>We would greatly appreciate if you could RSVP before 1st of November '17</p>
+                <p>We would greatly appreciate if you could RSVP before 1st of July '21</p>
                 <form id="rsvp-form" class="rsvp-form"
                       action=""
                       method="POST">
@@ -460,7 +431,8 @@
         <div class="row">
             <div class="col-sm-12 text-center content">
                 <span class="to-top-wrapper"><a href="#top" class="to-top"><i class="fa fa-angle-up"></i></a></span>
-                <p>Crafted by Ram with lots of <span class="fa fa-heart pulse2"></span> for Antara</p>
+                <p>Crafted by Ruth with lots of <span class="fa fa-heart pulse2"></span> and
+                    refusing to accept the terms and conditions of other wedding websites</p>
             </div>
         </div>
     </div>
@@ -477,21 +449,6 @@
 <script src="js/scripts.min.js"></script>
 <script async defer
         src="https://maps.googleapis.com/maps/api/js?key=AIzaSyBlPw3GQYI3faa_9mRE6plWuM7xNEmrwH0&callback=initMap"></script>
-<!-- Google Analytics -->
-<script>
-    (function (i, s, o, g, r, a, m) {
-        i['GoogleAnalyticsObject'] = r;
-        i[r] = i[r] || function () {
-            (i[r].q = i[r].q || []).push(arguments)
-        }, i[r].l = 1 * new Date();
-        a = s.createElement(o),
-            m = s.getElementsByTagName(o)[0];
-        a.async = 1;
-        a.src = g;
-        m.parentNode.insertBefore(a, m)
-    })(window, document, 'script', 'https://www.google-analytics.com/analytics.js', 'ga');
-    ga('create', 'UA-46465113-4', 'auto');
-    ga('send', 'pageview');
-</script>
+
 </body>
 </html>
